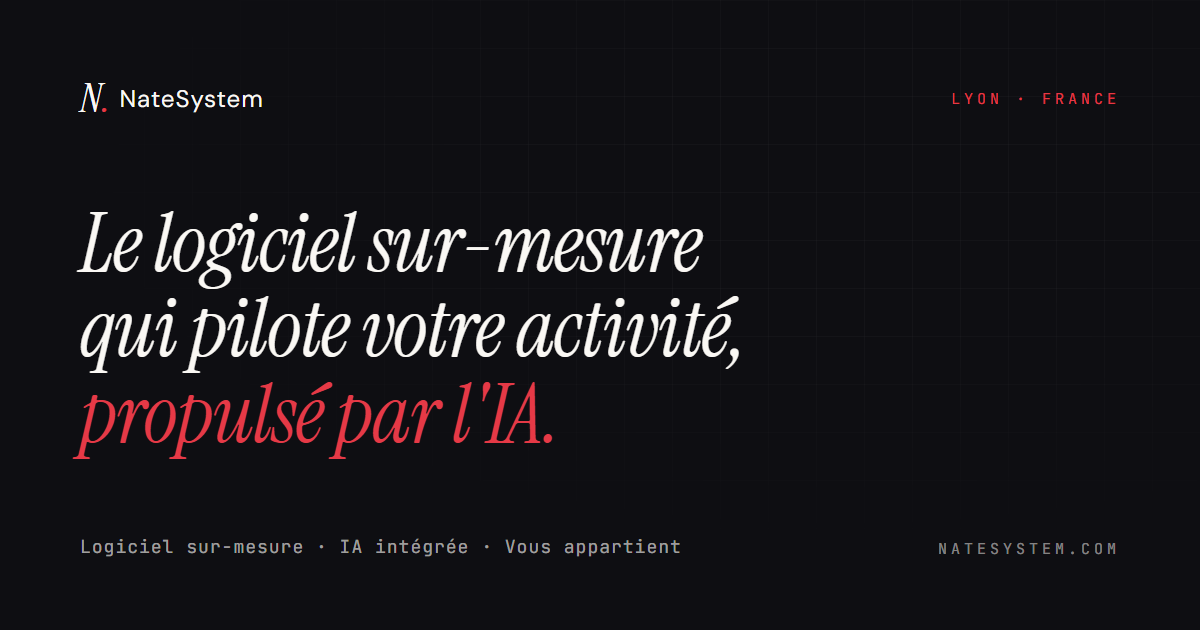
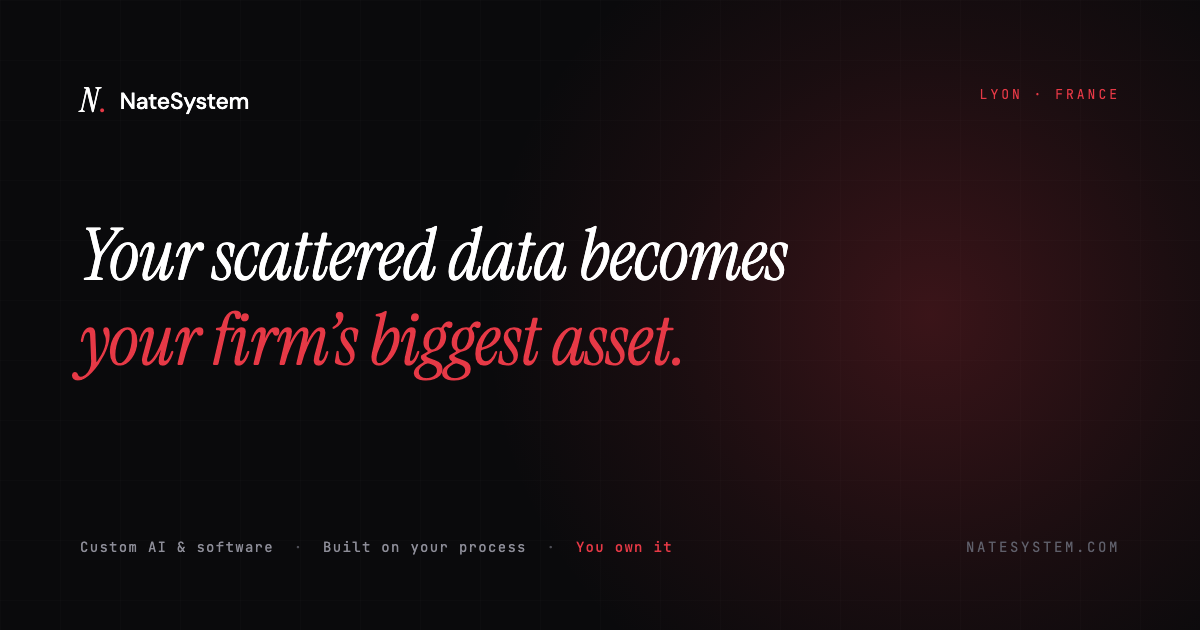
L'image de partage porte la promesse de la banniere
L'ancienne disait "le logiciel sur-mesure qui pilote votre activite, propulse
par l'IA" : elle vendait l'outil, et elle racontait autre chose que la
banniere LinkedIn refaite aujourd'hui. Les deux surfaces disaient deux choses
differentes du meme business.

Elle dit maintenant la meme phrase que la banniere, en anglais comme le
profil : your scattered data becomes your firm's biggest asset. Meme bandeau
de qualification, custom AI & software / built on your process / you own it.

C'etait un PNG statique sans source. Le HTML qui la genere est desormais
versionne a la racine, a cote de logo-export.html, et se rend avec Chrome
headless en 1200x630. L'ancienne est archivee hors de public/.

diff --git a/og-image.html b/og-image.html
@@ -1,0 +1,37 @@
+<!doctype html>
+<html><head><meta charset="utf-8">
+<link rel="preconnect" href="https://fonts.gstatic.com" crossorigin>
+<link href="https://fonts.googleapis.com/css2?family=DM+Sans:wght@400;500;700&family=Instrument+Serif:ital@0;1&family=JetBrains+Mono:wght@400;500&display=swap" rel="stylesheet">
+<style>
+ *{margin:0;padding:0;box-sizing:border-box}
+ body{width:1200px;height:630px;background:#0a0a0c;overflow:hidden;position:relative;
+      font-family:'DM Sans',-apple-system,sans-serif}
+ .grid{position:absolute;inset:0;opacity:.5;
+   background-image:linear-gradient(rgba(255,255,255,.028) 1px,transparent 1px),linear-gradient(90deg,rgba(255,255,255,.028) 1px,transparent 1px);
+   background-size:60px 60px}
+ .glow{position:absolute;right:-180px;top:50%;transform:translateY(-50%);width:900px;height:900px;border-radius:50%;
+   background:radial-gradient(circle,rgba(230,57,70,.22) 0%,rgba(230,57,70,.07) 42%,transparent 70%)}
+ .logo{position:absolute;left:80px;top:78px;display:flex;align-items:center;gap:14px;z-index:2}
+ .logo .mark{font-family:'Instrument Serif',Georgia,serif;font-style:italic;font-size:34px;color:#fff}
+ .logo .mark i{color:#E63946;font-style:normal}
+ .logo .name{font-size:23px;font-weight:500;color:#fff;letter-spacing:-.2px}
+ .place{position:absolute;right:80px;top:86px;z-index:2;font-family:'JetBrains Mono',monospace;
+   font-size:13px;letter-spacing:3px;text-transform:uppercase;color:#E63946}
+ .h{position:absolute;left:80px;top:214px;z-index:2;width:1010px;
+   font-family:'Instrument Serif',Georgia,serif;font-style:italic;font-size:72px;line-height:1.18;
+   color:#fff;letter-spacing:-.5px}
+ .h .a{color:#E63946}
+ .strip{position:absolute;left:80px;bottom:74px;z-index:2;font-family:'JetBrains Mono',monospace;
+   font-size:14px;letter-spacing:1.3px;color:#8d8d98}
+ .strip b{color:#E63946;font-weight:500}
+ .strip span{color:#4d4d55;margin:0 10px}
+ .url{position:absolute;right:80px;bottom:74px;z-index:2;font-family:'JetBrains Mono',monospace;
+   font-size:14px;letter-spacing:2.6px;text-transform:uppercase;color:#5f5f6a}
+</style></head><body>
+ <div class="grid"></div><div class="glow"></div>
+ <div class="logo"><span class="mark">N<i>.</i></span><span class="name">NateSystem</span></div>
+ <div class="place">Lyon &middot; France</div>
+ <div class="h">Your scattered data becomes<br><span class="a">your firm&rsquo;s biggest asset.</span></div>
+ <div class="strip">Custom AI &amp; software <span>&middot;</span> Built on your process <span>&middot;</span> <b>You own it</b></div>
+ <div class="url">natesystem.com</div>
+</body></html>
